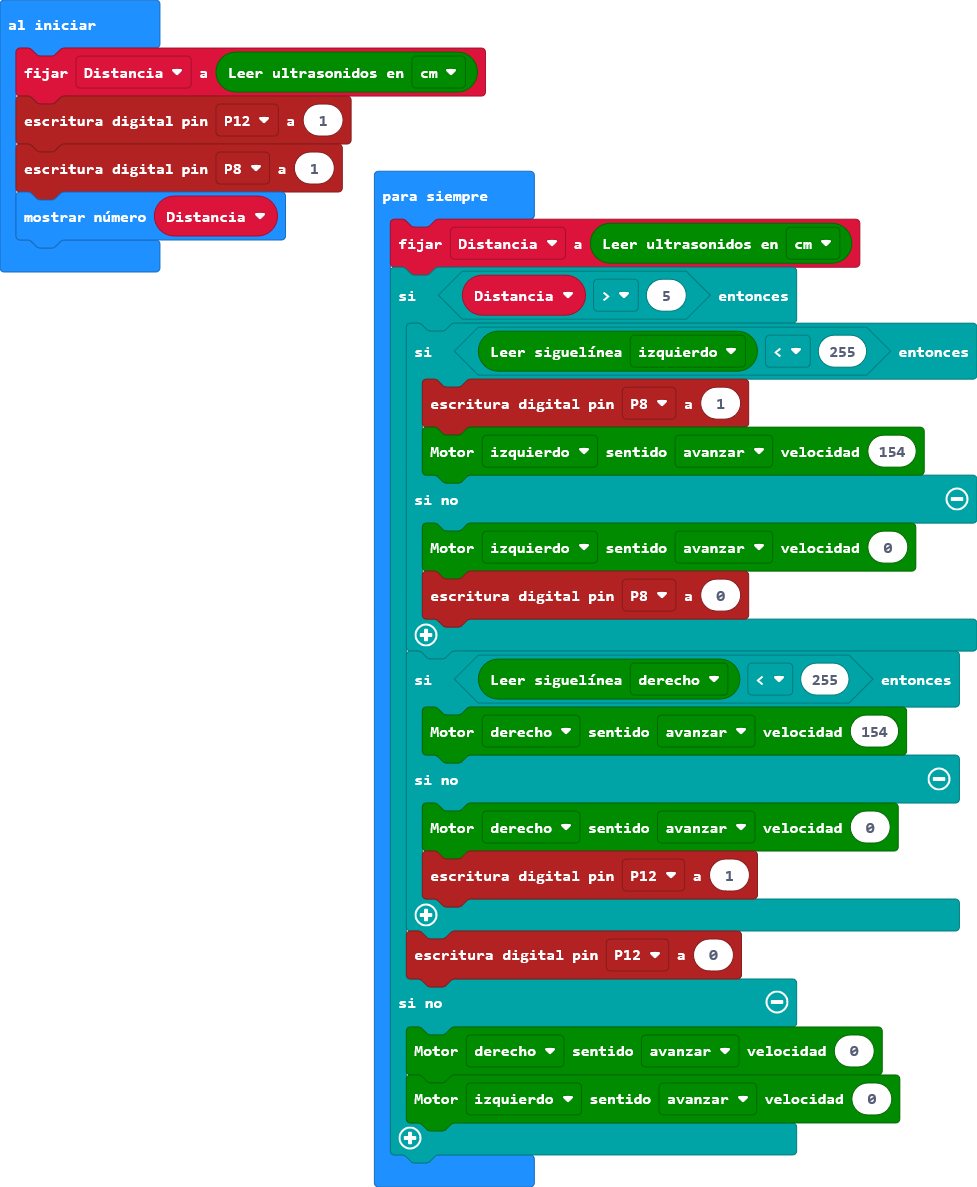
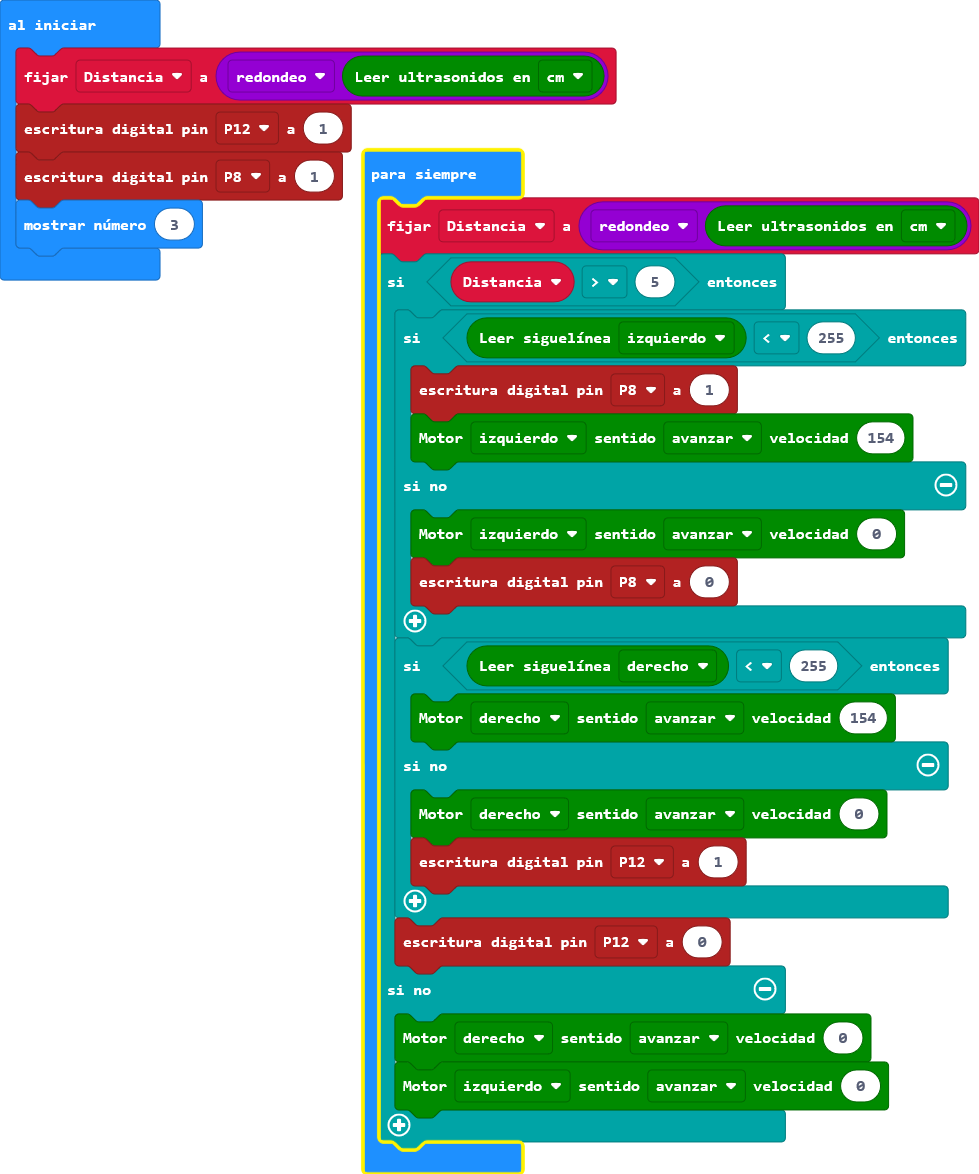
Actualizar main.blocks, main.ts

Changed region(s): [[0.0, 0.0307, 1.0, 1.0]]

diff --git a/main.ts b/main.ts
@@ -1,9 +1,9 @@
-let Distancia = maqueen.Ultrasonic(PingUnit.Centimeters)
+let Distancia = Math.round(maqueen.Ultrasonic(PingUnit.Centimeters))
 pins.digitalWritePin(DigitalPin.P12, 1)
 pins.digitalWritePin(DigitalPin.P8, 1)
-basic.showNumber(Distancia)
+basic.showNumber(3)
 basic.forever(function () {
-    Distancia = maqueen.Ultrasonic(PingUnit.Centimeters)
+    Distancia = Math.round(maqueen.Ultrasonic(PingUnit.Centimeters))
     if (Distancia > 5) {
         if (maqueen.readPatrol(maqueen.Patrol.PatrolLeft) < 255) {
             pins.digitalWritePin(DigitalPin.P8, 1)
